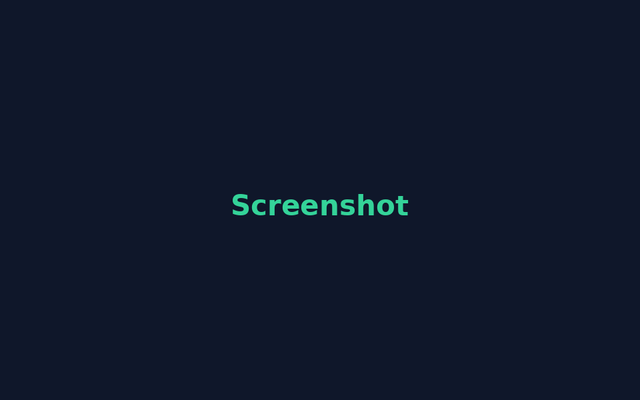
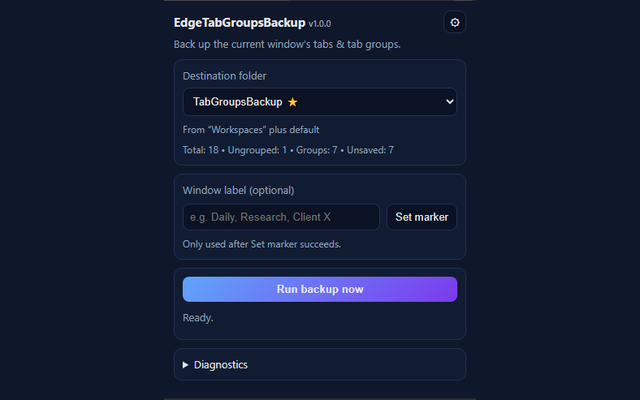
Release v1.0.0

diff --git a/assets/release-process.md b/assets/release-process.md
@@ -41,7 +41,7 @@ Do not copy private root files such as `STATE.md`, private `README.md`, or zippe
 
 Required/desired store screenshots:
 
-- Popup page, resized/padded to 640×400.
-- Options page, resized/padded to 640×400.
+- Popup page, resized/padded to 640×400: assets/store-screenshot-popup-640x400.png.
+- Options page, resized/cropped to 640×400: assets/store-screenshot-options-640x400.png.
 
 Avoid exposing private URLs, internal site names, or sensitive bookmark names.

diff --git a/README.md b/README.md
@@ -19,7 +19,7 @@ Back up the **current Microsoft Edge window’s** tabs and tab groups into favou
 
 ![EdgeTabGroupsBackup popup](assets/store-screenshot-popup-640x400.png)
 
-_Options screenshot to be added before store submission._
+![EdgeTabGroupsBackup Options page](assets/store-screenshot-options-640x400.png)
 
 ## Destination discovery
 

diff --git a/assets/release-notes.md b/assets/release-notes.md
@@ -4,3 +4,5 @@
 - Includes current-window tab and tab-group backup to favourites/bookmarks.
 - Includes default backup destination, Edge Workspaces destination discovery, retention, preview counts, unsaved-tab counting, optional marker-tab labels, InPrivate fixed labelling, cleanup tooling, and publication/release automation.
 - Updated documentation and version to v1.0.0.
+
+- Added final popup and Options screenshots for README, release assets, and Edge Add-ons submission.

diff --git a/assets/store-listing.md b/assets/store-listing.md
@@ -51,4 +51,4 @@ https://github.com/site-speed/EdgeTabGroupsBackup-extension/issues
 
 - Logo: `assets/store-logo-300.png` / `assets/extension-logo-300.png`
 - Popup screenshot: `assets/store-screenshot-popup-640x400.png`
-- Options screenshot: TODO after screenshot is captured and resized to 640×400.
+- Options screenshot: assets/store-screenshot-options-640x400.png